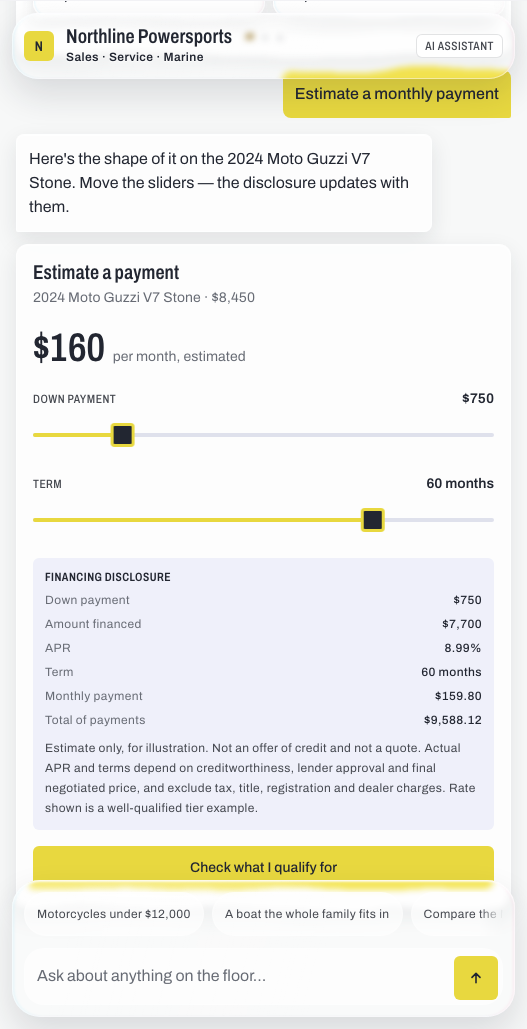
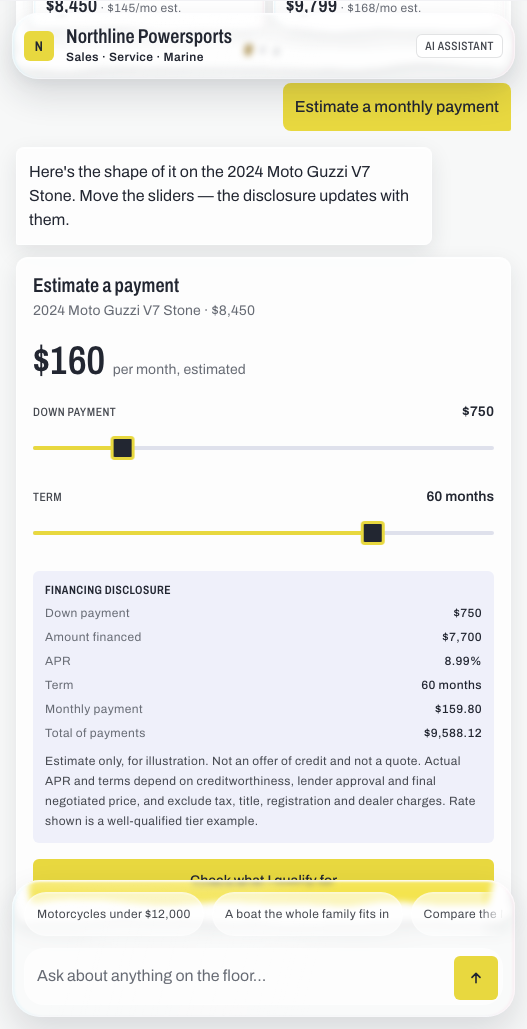
Add phone-only typed conversation demo

diff --git a/tools/readme_media/generate.swift b/tools/readme_media/generate.swift
@@ -70,56 +70,56 @@ let conversationDefinitions: [SceneDefinition] = [
     "01 / CHOICE CHIPS",
     "Ask less.\nChoose faster.",
     "Useful next steps arrive as trusted controls, not another paragraph.",
-    paleYellow, darkScreen, NSColor.white
+    warmYellow, surface, ink
   ),
   (
     "vitrine-unit-carousel.png",
     "02 / INVENTORY CAROUSEL",
     "The floor,\nin the thread.",
     "Live inventory becomes a draggable, typed product surface with real photography.",
-    paleYellow, darkScreen, NSColor.white
+    warmYellow, surface, ink
   ),
   (
     "vitrine-unit-compare.png",
     "03 / UNIT COMPARE",
     "Side by side,\nthen.",
     "The model selects the comparison; the renderer owns every row and value.",
-    paleYellow, darkScreen, NSColor.white
+    warmYellow, surface, ink
   ),
   (
     "vitrine-finance-slider.png",
     "04 / FINANCE SLIDER",
     "Payments with\nthe fine print.",
     "Interactive terms and Regulation Z disclosures stay structurally attached.",
-    paleYellow, darkScreen, NSColor.white
+    warmYellow, surface, ink
   ),
   (
     "vitrine-trade-in.png",
     "05 / TRADE-IN",
     "A number before\na lead form.",
     "Give value first: an indicative range without demanding contact details.",
-    paleYellow, darkScreen, NSColor.white
+    warmYellow, surface, ink
   ),
   (
     "vitrine-schedule.png",
     "06 / SCHEDULING",
     "Pick a slot.\nKeep moving.",
     "Availability becomes the next turn instead of sending the buyer elsewhere.",
-    paleYellow, darkScreen, NSColor.white
+    warmYellow, surface, ink
   ),
   (
     "vitrine-lead-capture.png",
     "07 / LEAD CAPTURE",
     "Contact details,\nasked last.",
     "The form appears only after the buyer has chosen something concrete.",
-    paleYellow, darkScreen, NSColor.white
+    warmYellow, surface, ink
   ),
   (
     "vitrine-summary-receipt.png",
     "08 / RECEIPT",
     "Booked without\na detour.",
     "The final state carries the unit, appointment and customer into one receipt.",
-    paleYellow, darkScreen, NSColor.white
+    warmYellow, surface, ink
   ),
 ]
 
@@ -530,6 +530,67 @@ for preview in devicePreviews {
     renderDevicePreview(preview.0),
     to: assetDirectory.appendingPathComponent(preview.1)
   )
+}
+
+let chatFrameDirectory = assetDirectory.appendingPathComponent(".chat-frames")
+let chatFrameURLs = try FileManager.default.contentsOfDirectory(
+  at: chatFrameDirectory,
+  includingPropertiesForKeys: nil
+).filter { $0.pathExtension.lowercased() == "png" }
+ .sorted { $0.lastPathComponent < $1.lastPathComponent }
+
+guard !chatFrameURLs.isEmpty else {
+  throw NSError(domain: "VitrineReadmeMedia", code: 6, userInfo: [
+    NSLocalizedDescriptionKey: "No typed-conversation frames found at \(chatFrameDirectory.path)",
+  ])
+}
+
+let chatGIFURL = assetDirectory.appendingPathComponent("vitrine-chat-pale-dark.gif")
+guard let chatDestination = CGImageDestinationCreateWithURL(
+  chatGIFURL as CFURL,
+  UTType.gif.identifier as CFString,
+  chatFrameURLs.count,
+  nil
+) else {
+  throw NSError(domain: "VitrineReadmeMedia", code: 7)
+}
+CGImageDestinationSetProperties(chatDestination, [
+  kCGImagePropertyGIFDictionary: [kCGImagePropertyGIFLoopCount: 0],
+] as CFDictionary)
+
+for frameURL in chatFrameURLs {
+  guard let source = NSImage(contentsOf: frameURL) else { continue }
+  let durationPart = frameURL.deletingPathExtension().lastPathComponent.split(separator: "-").last
+  let durationMs = Double(durationPart ?? "140") ?? 140
+  let scene = Scene(
+    image: source,
+    eyebrow: "",
+    title: "",
+    detail: "",
+    accent: paleYellow,
+    screenFill: darkScreen,
+    screenChrome: NSColor.white
+  )
+  let rendered = NSImage(size: NSSize(width: 500, height: 950), flipped: true) { bounds in
+    paper.setFill()
+    bounds.fill()
+    drawIPhone16Pro(
+      scene: scene,
+      next: nil,
+      progress: 0,
+      in: NSRect(x: 35, y: 25, width: 430, height: 900)
+    )
+    return true
+  }
+  CGImageDestinationAddImage(
+    chatDestination,
+    try cgImage(rendered),
+    [kCGImagePropertyGIFDictionary: [kCGImagePropertyGIFDelayTime: durationMs / 1000]] as CFDictionary
+  )
+}
+
+guard CGImageDestinationFinalize(chatDestination) else {
+  throw NSError(domain: "VitrineReadmeMedia", code: 8)
 }
 
 print("Generated Vitrine README media in \(assetDirectory.path)")

diff --git a/tools/readme_media/capture.js b/tools/readme_media/capture.js
@@ -1,11 +1,13 @@
 "use strict";
 
+const fs = require("fs");
 const path = require("path");
 const { pathToFileURL } = require("url");
 const { chromium } = require("playwright");
 
 const root = path.resolve(__dirname, "../..");
 const output = path.join(root, "docs/assets/readme");
+const chatFrames = path.join(output, ".chat-frames");
 
 async function settle(page) {
   await page.waitForFunction(() => {
@@ -47,9 +49,6 @@ async function capture(page, fileName) {
 
 async function captureConversation(page) {
   await prepare(page);
-  await page.locator('.theme[data-key="pale"]').click();
-  await page.locator("#tog-scheme").click();
-  await page.waitForTimeout(250);
   await capture(page, "vitrine-choice-chips.png");
 
   await send(page, "Motorcycles under $12,000");
@@ -80,6 +79,66 @@ async function captureConversation(page) {
   await capture(page, "vitrine-summary-receipt.png");
 }
 
+async function captureTypedConversation(page) {
+  fs.rmSync(chatFrames, { recursive: true, force: true });
+  fs.mkdirSync(chatFrames, { recursive: true });
+
+  await page.emulateMedia({ reducedMotion: "no-preference" });
+  await page.goto(pathToFileURL(path.join(root, "index.html")).href);
+  await page.locator("#device").waitFor();
+  await page.locator(".vt-chips").waitFor();
+  await page.locator('.theme[data-key="pale"]').click();
+  await page.locator("#tog-scheme").click();
+  await page.waitForTimeout(500);
+  await page.evaluate(() => {
+    const stage = document.querySelector(".stage");
+    const device = document.querySelector("#device");
+    stage.style.width = "527px";
+    device.style.width = "527px";
+    device.style.height = "1028px";
+    device.style.minHeight = "1028px";
+    device.style.border = "0";
+    device.style.borderRadius = "0";
+    device.style.boxShadow = "none";
+  });
+
+  let frame = 0;
+  async function snap(duration) {
+    const name = "frame-" + String(frame++).padStart(3, "0") + "-" + duration + ".png";
+    await page.locator("#device").screenshot({ path: path.join(chatFrames, name) });
+  }
+
+  async function record(action) {
+    let done = false;
+    let failure;
+    const task = Promise.resolve().then(action).catch((error) => { failure = error; }).finally(() => { done = true; });
+    while (!done) {
+      await snap(140);
+      await page.waitForTimeout(90);
+    }
+    await task;
+    if (failure) throw failure;
+  }
+
+  async function typeAndSend(message) {
+    const input = page.locator(".vt-composer textarea");
+    await input.click();
+    await record(() => input.pressSequentially(message, { delay: 42 }));
+    await snap(320);
+    await record(async () => {
+      await input.press("Enter");
+      await settle(page);
+    });
+    await snap(900);
+  }
+
+  await snap(900);
+  await typeAndSend("Show me bikes under $12k");
+  await typeAndSend("Compare the Yamaha MT-09 and Kawasaki Z900");
+  await typeAndSend("What's the monthly payment on the Moto Guzzi V7?");
+  await snap(1400);
+}
+
 (async () => {
   const browser = await chromium.launch();
   const page = await browser.newPage({ viewport: { width: 1280, height: 1100 }, deviceScaleFactor: 1 });
@@ -99,6 +158,7 @@ async function captureConversation(page) {
     await capture(page, "vitrine-white-label.png");
 
     await captureConversation(page);
+    await captureTypedConversation(page);
   } finally {
     await browser.close();
   }

diff --git a/README.md b/README.md
@@ -1,5 +1,5 @@
 <p align="center">
-  <img src="docs/assets/readme/vitrine-showcase-refined.gif?v=pale-dark" alt="Vitrine UI in dark mode with the Pale theme: eight typed interactions from first choice to final booking receipt" width="100%">
+  <img src="docs/assets/readme/vitrine-showcase-refined.gif?v=eight-step-light" alt="Vitrine UI in motion: eight typed interactions from first choice to final booking receipt" width="100%">
 </p>
 
 <h1 align="center">Vitrine UI</h1>
@@ -28,6 +28,16 @@
 <p align="center">
   <sub>GENERATIVE INVENTORY &nbsp;·&nbsp; COMPLIANT FINANCING &nbsp;·&nbsp; WHITE-LABEL RUNTIME</sub><br>
   <sub>Reviewed product states from the running demo, not reconstructed mockups.</sub>
+</p>
+
+<h3 align="center">Watch the conversation build</h3>
+
+<p align="center">
+  <img src="docs/assets/readme/vitrine-chat-pale-dark.gif?v=typed-chat" alt="A customer typing into Vitrine in Dark mode with the Pale theme while the conversation fills with inventory, comparison and financing components" width="42%">
+</p>
+
+<p align="center">
+  <sub>Actual browser capture · user typing · streamed responses · Dark + Pale</sub>
 </p>
 
 ---

diff --git a/docs/assets/readme/README.md b/docs/assets/readme/README.md
@@ -4,12 +4,13 @@ The `vitrine-*.png` files are reproducible captures of the running demo. Three
 product states feed the standalone device previews; eight consecutive
 conversation states feed the animated hero, covering choice chips, inventory,
 comparison, financing, trade-in, scheduling, lead capture and the final
-receipt. Those eight hero states use the Pale tenant theme in dark mode. The
+receipt. A separate sequence of browser frames captures a customer actually
+typing while the thread fills in the Pale tenant theme and dark mode. The
 Swift generator reads those captures without modifying them and
 produces the hero GIF, its static poster and the three previews used by the
-repository README. Every composition presents the states inside an iPhone 16
-Pro-style frame with device-correct proportions, controls, safe area and
-Dynamic Island.
+repository README, plus the phone-only typed-conversation GIF. Every
+composition presents the states inside an iPhone 16 Pro-style frame with
+device-correct proportions, controls, safe area and Dynamic Island.
 
 Regenerate from the repository root on macOS:
 
